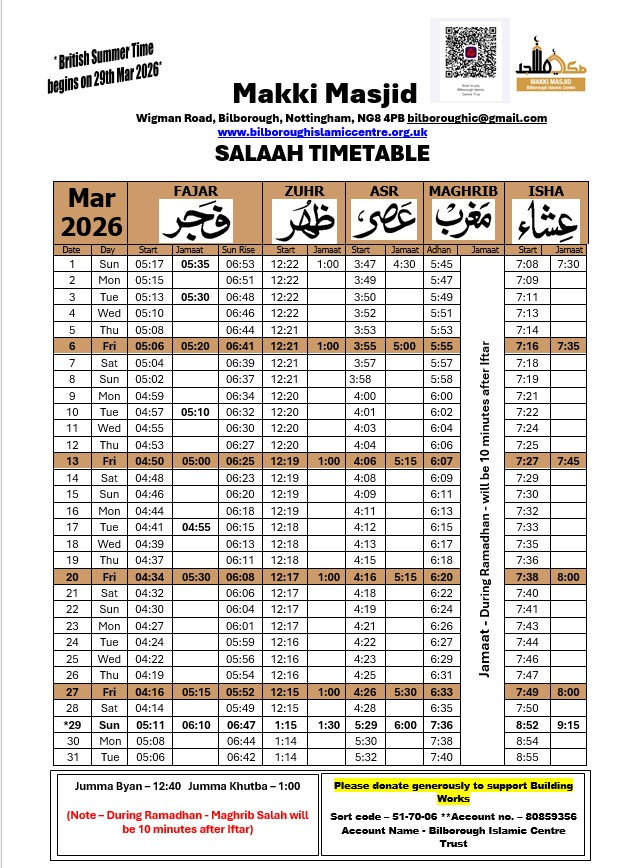
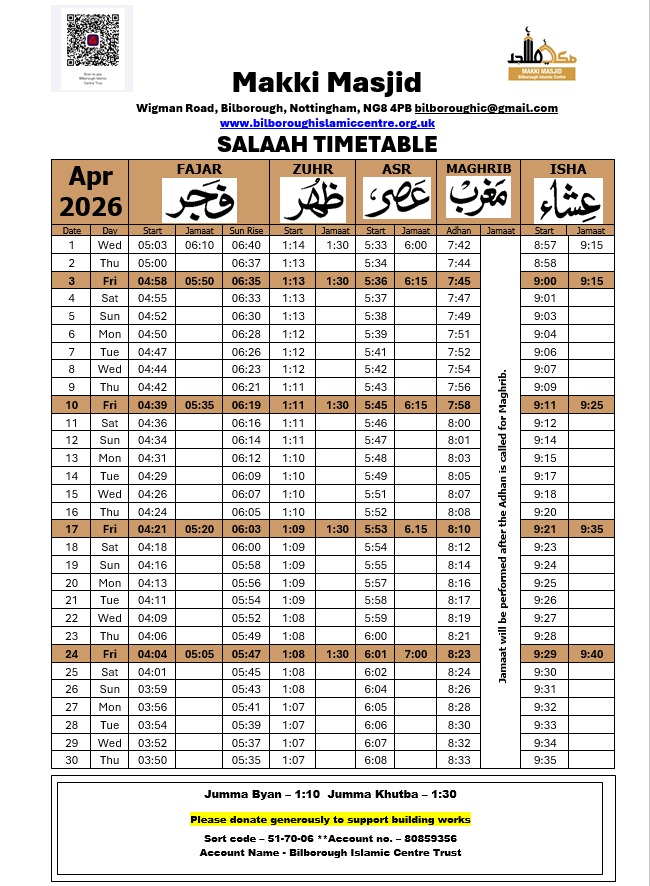
apr 26

diff --git a/src/App.js b/src/App.js
@@ -6,7 +6,7 @@ import AmazonSmileBanner from "./components/AmazonSmileBanner"
 import headerLogo from "./images/header-logo.png"
 import logo from "./images/logo.png"
 import prayerTimetable from "./images/prayer-timetable.jpeg"
-import ramadanTimetable from "./images/ramadan-timetable.jpeg"
+// import ramadanTimetable from "./images/ramadan-timetable.jpeg"
 
 function App() {
     return (
@@ -59,9 +59,9 @@ function App() {
                             worshippers better.
                         </p>
                     </div>
-                    <div className="centre-text">
-                        <img src={ramadanTimetable} alt="Ramadan Timetable"/>
-                    </div>
+                    {/*<div className="centre-text">*/}
+                    {/*    <img src={ramadanTimetable} alt="Ramadan Timetable"/>*/}
+                    {/*</div>*/}
                     <div className="centre-text">
                         <img src={prayerTimetable} alt="Prayer Timetable"/>
                     </div>
